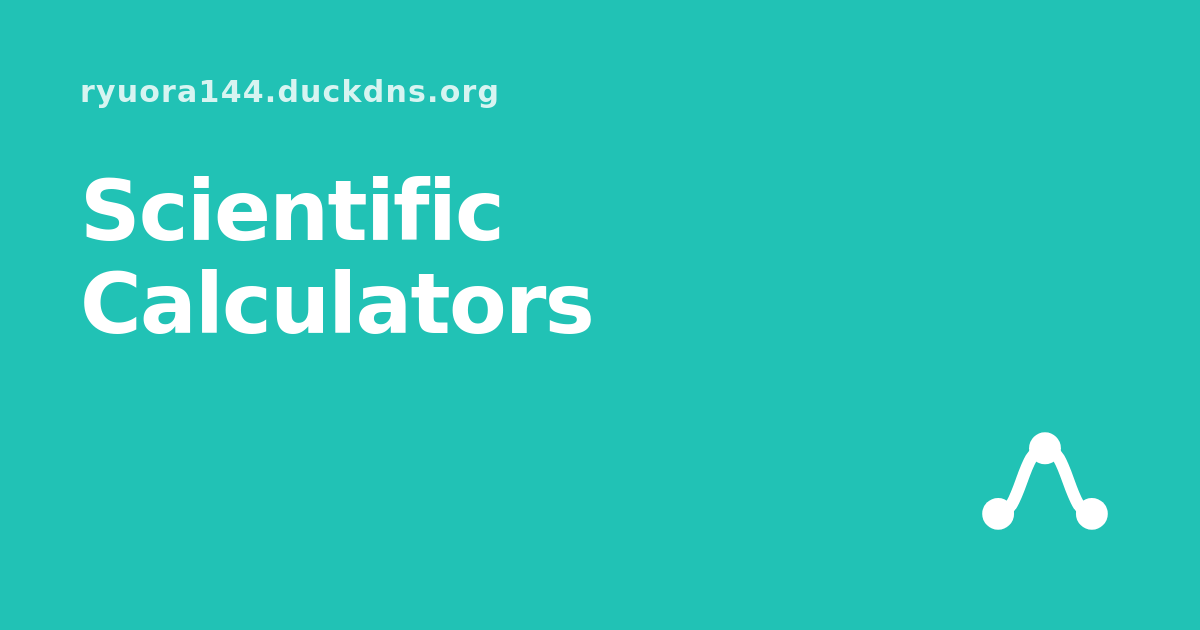
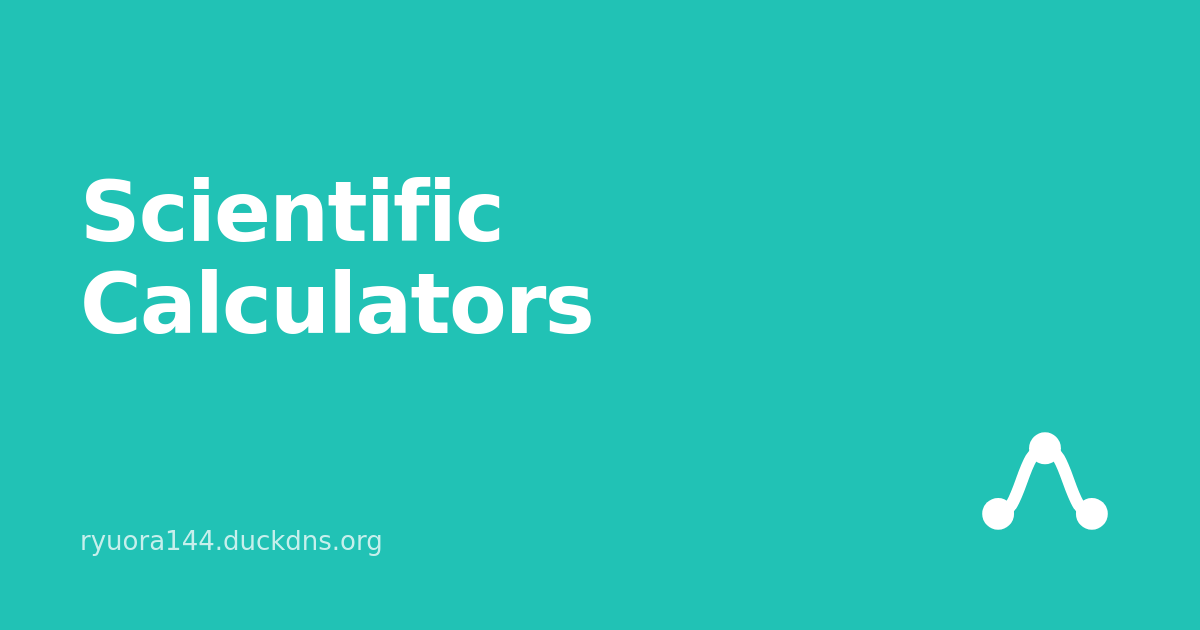
style(webUI): one layout for all five og:image cards
The two site-level cards put the domain in the kicker at the top; the three
topic cards put the section there and the domain at the bottom. Same three
pieces, two arrangements.

Now every card is kicker / title / domain + mark, with the domain always
bottom-left. The site-level pages sit inside no section, so their kicker is
empty - min-height on the line keeps the geometry from collapsing, which
would otherwise slide the title up and undo the point.

Regenerated; still 1200x630 and byte-identical on a second run.

Claude-Session: https://claude.ai/code/session_01LEPvQSWDK3rF1hvdTwLE6h

diff --git a/webUI/tools/gen-og.js b/webUI/tools/gen-og.js
@@ -62,9 +62,13 @@ function cards() {
   const spec = loadSpec('interpolation');
   const SECTION = 'Scientific Calculators';
 
+  // Every card has the same three slots: a kicker naming what this page sits
+  // inside, the title, and the domain. The two site-level pages sit inside
+  // nothing, so their kicker is empty - but the line still takes its height, so
+  // all five share one geometry and the domain never moves.
   const out = [
-    { file: 'site.png', kicker: DOMAIN, title: 'Interactive Tools for Computational Work' },
-    { file: 'scientific_cal.png', kicker: DOMAIN, title: SECTION }
+    { file: 'site.png', kicker: '', title: 'Interactive Tools for Computational Work' },
+    { file: 'scientific_cal.png', kicker: '', title: SECTION }
   ];
 
   for (const level of spec.levels) {
@@ -100,6 +104,9 @@ function html(card) {
   .kicker {
     font-size: 30px; font-weight: 600; letter-spacing: 0.04em;
     opacity: 0.82;
+    /* Reserved even when empty: an absent kicker must not slide the title up
+       and break the shared geometry. */
+    min-height: 36px;
   }
   h1 {
     font-size: 84px; font-weight: 700; line-height: 1.1;
@@ -114,7 +121,7 @@ function html(card) {
 <div class="kicker">${card.kicker}</div>
 <h1>${card.title}</h1>
 <div class="foot">
-  <span class="domain">${card.kicker === DOMAIN ? '' : DOMAIN}</span>
+  <span class="domain">${DOMAIN}</span>
   ${MARK}
 </div>`;
 }

diff --git a/webUI/.claude/HANDOVER.md b/webUI/.claude/HANDOVER.md
@@ -186,6 +186,7 @@ Current status only. Not history — daily detail in .claude/log/.
 6. Re-run gen-og-images after ANY `card` change. The text is baked into the PNG, so a stale card is a wrong social preview that nothing else will catch.
 7. `twitter:card` must stay `summary_large_image` on every page. With `summary` a 1200x630 image is cropped to a small square, which throws the card away.
 8. The mark is copied from favicon.svg into gen-og.js. Two copies of one path — if the favicon is ever redrawn, both change.
+8a. ALL FIVE share one layout, by the user's call 2026-09-05: kicker top, title, then domain bottom-left and mark bottom-right. The two site-level cards sit inside no section, so their kicker is EMPTY — but `.kicker { min-height: 36px }` keeps the line's height, or an absent kicker would slide the title up and break the shared geometry. The domain is on every card, never doubled into the kicker.
 9. seo.spec.ts covers all five pages, umbrella and section home included. The assertion that earns its place is the 200: a declared og:image that 404s looks exactly like a working one until somebody shares the link. Proven by moving a PNG aside and watching it fail.
 10. The size check reads the PNG's own IHDR bytes, so a card regenerated at the wrong size cannot ship with the tag still claiming 1200x630.
 11. og:image is NOT a ranking factor. It buys click-through and credibility when a link is shared, nothing else.
